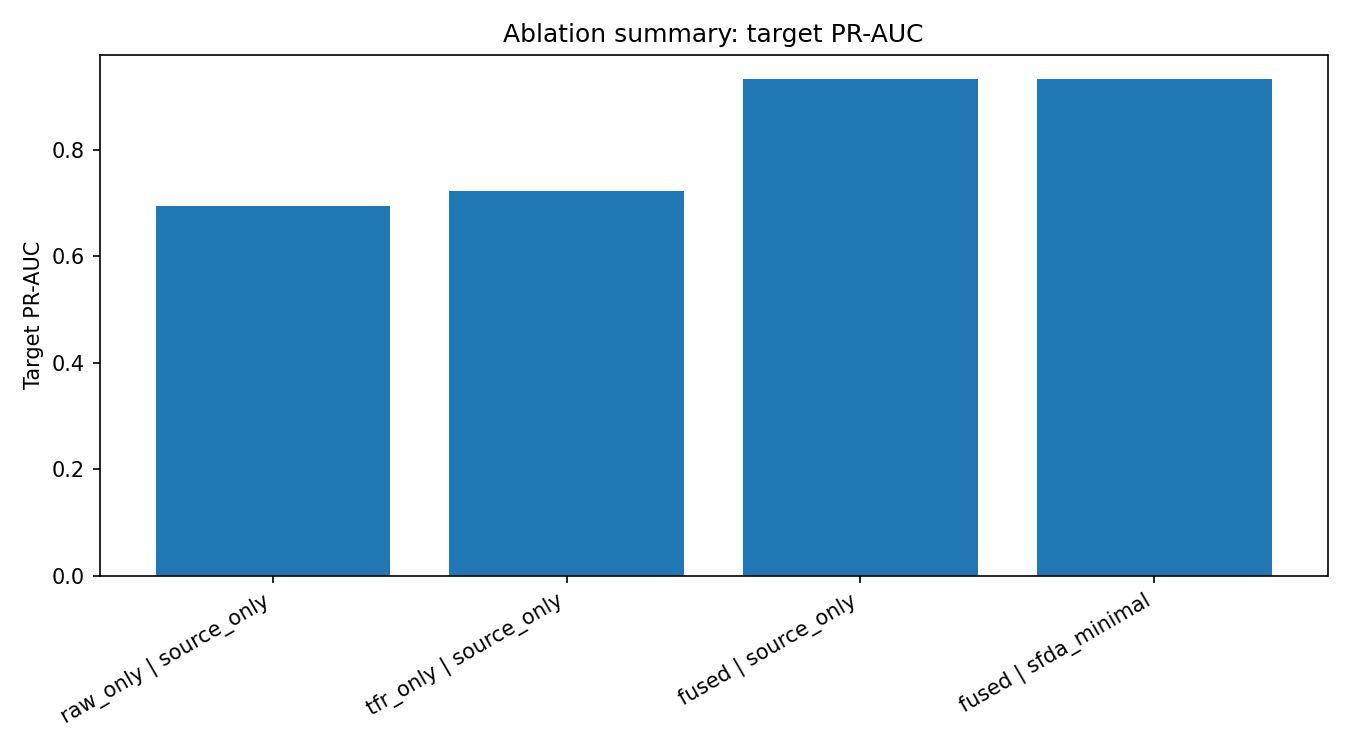
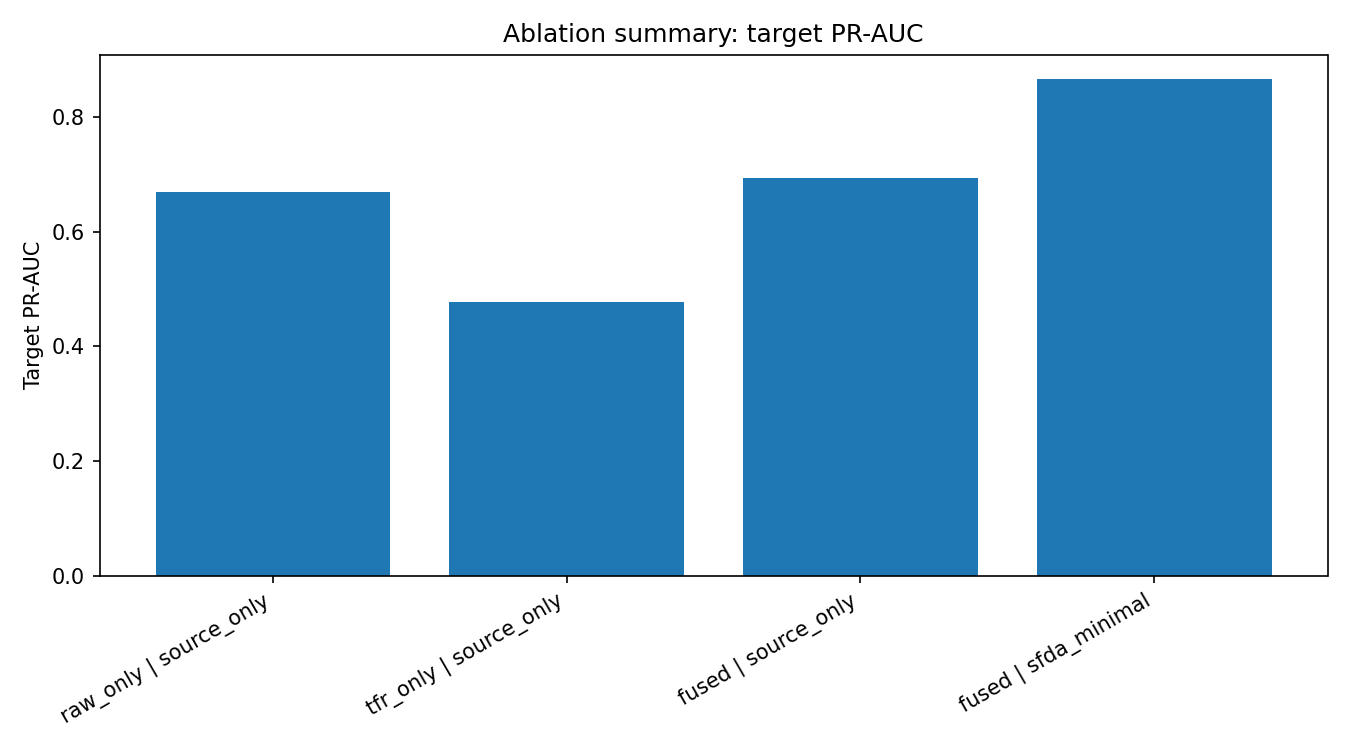
fix: summary fixed and updated

diff --git a/src/build_ablation_summary.py b/src/build_ablation_summary.py
@@ -59,18 +59,20 @@ def build_sfda_row(sfda_dir: Path, variant: str = "fused", stage_name: str = "sf
     data = load_json(summary_path)
 
     after = data["after"]
+    target = after["target_test_target_calibrated"]
+    source = after["source_val"]
 
     return {
         "experiment": variant,
         "stage": stage_name,
-        "source_val_roc_auc": after["source_val"]["roc_auc"],
-        "target_test_roc_auc": after["target_test"]["roc_auc"],
-        "source_val_pr_auc": after["source_val"]["pr_auc"],
-        "target_test_pr_auc": after["target_test"]["pr_auc"],
-        "source_val_f1": after["source_val"]["f1"],
-        "target_test_f1": after["target_test"]["f1"],
-        "delta_roc_auc": after["source_val"]["roc_auc"] - after["target_test"]["roc_auc"],
-        "delta_pr_auc": after["source_val"]["pr_auc"] - after["target_test"]["pr_auc"],
+        "source_val_roc_auc": source["roc_auc"],
+        "target_test_roc_auc": target["roc_auc"],
+        "source_val_pr_auc": source["pr_auc"],
+        "target_test_pr_auc": target["pr_auc"],
+        "source_val_f1": source["f1"],
+        "target_test_f1": target["f1"],
+        "delta_roc_auc": source["roc_auc"] - target["roc_auc"],
+        "delta_pr_auc": source["pr_auc"] - target["pr_auc"],
     }
 
 
@@ -125,12 +127,12 @@ def plot_fused_before_after(sfda_dir: Path):
 
     labels = ["before", "after"]
     target_roc = [
-        data["before"]["target_test"]["roc_auc"],
-        data["after"]["target_test"]["roc_auc"],
+        data["before"]["target_test_target_calibrated"]["roc_auc"],
+        data["after"]["target_test_target_calibrated"]["roc_auc"],
     ]
     target_pr = [
-        data["before"]["target_test"]["pr_auc"],
-        data["after"]["target_test"]["pr_auc"],
+        data["before"]["target_test_target_calibrated"]["pr_auc"],
+        data["after"]["target_test_target_calibrated"]["pr_auc"],
     ]
 
     plt.figure(figsize=(6, 4))
